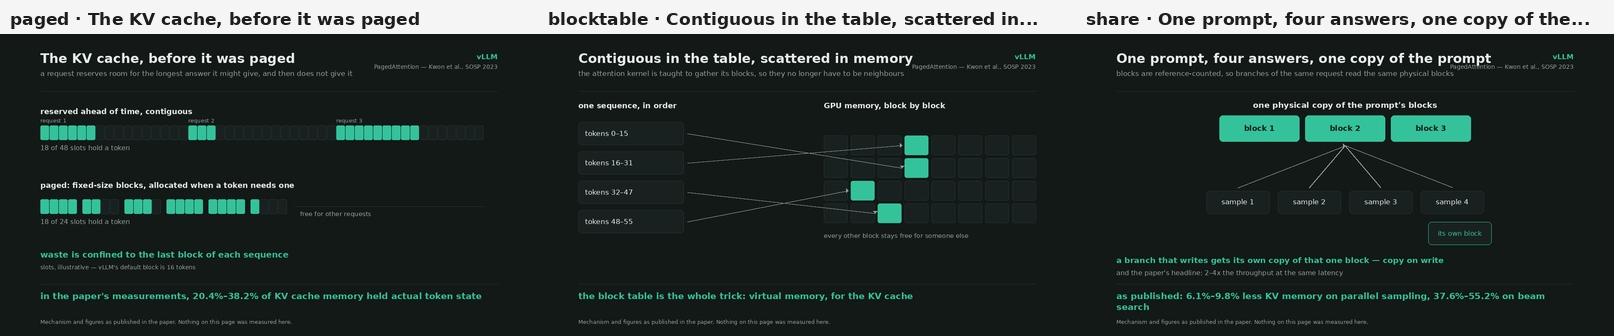
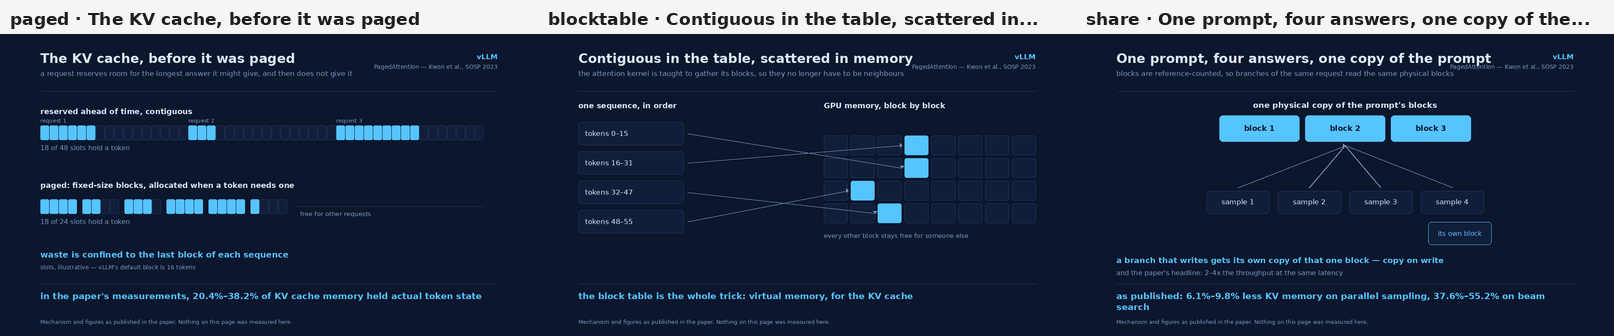
Give an explainer a film, and draw it in beats
Panels in order behind a title card.  Each page builds in two beats — the
row, then the count it comes to — so a total never stands over a row that
is still being drawn.

diff --git a/demokit/compose/explain_compose.py b/demokit/compose/explain_compose.py
@@ -56,6 +56,16 @@ def reveal(n, t):
     return int(round(n * min(max(t, 0.0), 1.0)))
 
 
+def stage(t, a, b):
+    """Progress within one beat of a panel, so beats can follow each other.
+
+    A counter that states its conclusion while the row it counts is still
+    being drawn is saying something that is not yet true on the page.
+    Gate on `stage(...) >= 1`.
+    """
+    return min(max((t - a) / (b - a), 0.0), 1.0)
+
+
 def _text(d, xy, s, f, fill, center=None):
     x, y = xy
     if center is not None:
@@ -107,7 +117,8 @@ def paged(d, pal, p, t, ink):
     # as reserved: one contiguous run per request, most of it never taken
     x0, y = PAD, BODY_TOP + 40
     _text(d, (PAD, y - 30), p["top"], font(18, True), pal.ink)
-    shown = reveal(len(reqs) * reserve, t)
+    ta, tb = stage(t, 0.0, 0.5), stage(t, 0.5, 1.0)
+    shown = reveal(len(reqs) * reserve, ta)
     for j, r in enumerate(reqs):
         base = j * reserve
         _text(d, (x0 + base * (slot + gap), y - 6), r["label"], font(13),
@@ -119,8 +130,9 @@ def paged(d, pal, p, t, ink):
         x = x0 + i * (slot + gap)
         _chip(d, (x, y + 14, x + slot, y + 14 + hh), pal, ink,
               filled=off < reqs[j]["used"], r=3)
-    held = f"{used_total} of {reserved_total} slots hold a token"
-    _text(d, (PAD, y + 58), held, font(16), pal.muted)
+    if ta >= 1:
+        held = f"{used_total} of {reserved_total} slots hold a token"
+        _text(d, (PAD, y + 58), held, font(16), pal.muted)
 
     # paged: blocks handed out only when a token needs one
     y = BODY_TOP + 216
@@ -130,7 +142,7 @@ def paged(d, pal, p, t, ink):
     seen = 0
     for j, r in enumerate(reqs):
         for b in range(math.ceil(r["used"] / block)):
-            if seen >= reveal(nblocks, t):
+            if seen >= reveal(nblocks, tb):
                 break
             for k in range(block):
                 filled = b * block + k < r["used"]
@@ -139,17 +151,17 @@ def paged(d, pal, p, t, ink):
                       filled=filled, r=3)
             x += block * (slot + gap) + 12
             seen += 1
-    if t > 0.9:
+    if tb >= 1:
         end = PAD + (len(reqs) * reserve) * (slot + gap)
         d.line((x + 6, y + 31, end, y + 31), fill=pal.line)
         _text(d, (x + 18, y + 40), "free for other requests", font(15),
               pal.muted)
-    _text(d, (PAD, y + 58),
-          f"{used_total} of {paged_total} slots hold a token", font(16),
-          pal.muted)
-
-    _text(d, (PAD, BODY_TOP + 350), p["tail"], font(20, True), ink)
-    _text(d, (PAD, BODY_TOP + 384), p["scale"], font(14), pal.muted)
+    if tb >= 1:
+        _text(d, (PAD, y + 58),
+              f"{used_total} of {paged_total} slots hold a token", font(16),
+              pal.muted)
+        _text(d, (PAD, BODY_TOP + 350), p["tail"], font(20, True), ink)
+        _text(d, (PAD, BODY_TOP + 384), p["scale"], font(14), pal.muted)
 
 
 def blocktable(d, pal, p, t, ink):
@@ -193,7 +205,7 @@ def share(d, pal, p, t, ink):
     _text(d, (0, BODY_TOP - 6), p["prompt_label"], font(19, True), pal.ink,
           center=W / 2)
     for i in range(n):
-        if i >= reveal(n, t):
+        if i >= reveal(n, stage(t, 0.0, 0.35)):
             break
         x = x0 + i * (bw + 14)
         d.rounded_rectangle((x, top, x + bw, top + bh), 8, fill=ink)
@@ -205,7 +217,7 @@ def share(d, pal, p, t, ink):
     bx0 = (W - (len(br) * (cw + 20) - 20)) / 2
     by = BODY_TOP + 210
     for i, lab in enumerate(br):
-        if i >= reveal(len(br), t + 0.2):
+        if i >= reveal(len(br), stage(t, 0.3, 0.75)):
             break
         x = bx0 + i * (cw + 20)
         d.rounded_rectangle((x, by, x + cw, by + 54), 8, fill=pal.card,
@@ -291,13 +303,13 @@ def schedule(d, pal, p, t, ink):
             zip(keys, ("ours", "compiled", "native", "stock"))}
     cw, cg, chh = 106, 14, 58
 
-    def row(order, y, head, ):
+    def row(order, y, head, tt):
         _text(d, (PAD, y - 52), head, font(18, True), pal.ink)
         seen = None
         for i, g in enumerate(order):
             hit = g == seen
             seen = g
-            if i >= reveal(len(order), t):
+            if i >= reveal(len(order), tt):
                 continue
             x = PAD + i * (cw + cg)
             d.rounded_rectangle((x, y, x + cw, y + chh), 8, fill=inks[g])
@@ -313,24 +325,28 @@ def schedule(d, pal, p, t, ink):
 
     a = prefix_computes(groups)
     b = prefix_computes(sorted(groups))
-    row(groups, BODY_TOP + 50, p["top"])
-    row(sorted(groups), BODY_TOP + 210, p["bottom"])
-    _text(d, (PAD, BODY_TOP + 122),
-          f"the prefix is computed {a} times", font(17), pal.muted)
-    _text(d, (PAD, BODY_TOP + 282),
-          f"the prefix is computed {b} times, and read {len(groups) - b} "
-          f"times from the tree", font(17), ink)
-    _text(d, (PAD, BODY_TOP + 326), p["tail"], font(19, True), ink)
+    ta, tb = stage(t, 0.0, 0.5), stage(t, 0.5, 1.0)
+    row(groups, BODY_TOP + 50, p["top"], ta)
+    row(sorted(groups), BODY_TOP + 210, p["bottom"], tb)
+    if ta >= 1:
+        _text(d, (PAD, BODY_TOP + 122),
+              f"the prefix is computed {a} times", font(17), pal.muted)
+    if tb >= 1:
+        _text(d, (PAD, BODY_TOP + 282),
+              f"the prefix is computed {b} times, and read "
+              f"{len(groups) - b} times from the tree", font(17), ink)
+        _text(d, (PAD, BODY_TOP + 326), p["tail"], font(19, True), ink)
 
 
 def fsm(d, pal, p, t, ink):
     text, forced = p["text"], p["forced"]
     n, decode_steps = fsm_steps(p)
     tw = (W - 2 * PAD) / n
+    ta, tb = stage(t, 0.0, 0.5), stage(t, 0.5, 1.0)
     y = BODY_TOP + 30
     _text(d, (PAD, y - 30), p["top"], font(18, True), pal.ink)
     for i, s in enumerate(text):
-        if i >= reveal(n, t):
+        if i >= reveal(n, ta):
             break
         x = PAD + i * tw
         d.rounded_rectangle((x + 3, y, x + tw - 3, y + 62), 7, fill=pal.card,
@@ -342,7 +358,7 @@ def fsm(d, pal, p, t, ink):
     y = BODY_TOP + 216
     _text(d, (PAD, y - 30), p["bottom"], font(18, True), pal.ink)
     i, step = 0, 0
-    while i < n:
+    while i < reveal(n, tb):
         j = i
         while j < n and forced[j] == forced[i]:
             j += 1
@@ -361,9 +377,10 @@ def fsm(d, pal, p, t, ink):
             _text(d, (0, y + 38), f"step {step}", font(13), pal.bg,
                   center=(x0 + x1) / 2)
         i = j
-    _text(d, (PAD, y + 100), f"{n} decode steps becomes {decode_steps}",
-          font(20, True), ink)
-    _text(d, (PAD, y + 134), p["tail"], font(16), pal.muted)
+    if tb >= 1:
+        _text(d, (PAD, y + 100), f"{n} decode steps becomes {decode_steps}",
+              font(20, True), ink)
+        _text(d, (PAD, y + 134), p["tail"], font(16), pal.muted)
 
 
 STYLES = {"paged": paged, "blocktable": blocktable, "share": share,
@@ -401,6 +418,22 @@ def frame(spec, panel, pal, t=1.0):
     return im
 
 
+def card(spec, pal, t=1.0):
+    """The opening card: whose idea this is, and where it was published."""
+    im = Image.new("RGB", (W, H), pal.bg)
+    d = ImageDraw.Draw(im)
+    ink = pal.role(spec.get("accent", "ours"))
+    _text(d, (PAD, 232), spec["framework"], font(76, True), ink)
+    y = 336
+    for line in wrap(d, spec["tagline"], font(28), W - 2 * PAD - 120)[:2]:
+        _text(d, (PAD, y), line, font(28), pal.ink)
+        y += 38
+    d.line((PAD, y + 26, PAD + 260 * min(t * 2, 1.0), y + 26), fill=pal.line)
+    _text(d, (PAD, y + 48), spec["paper"], font(19), pal.muted)
+    _text(d, (PAD, 678), spec["source"], font(13), pal.muted)
+    return im
+
+
 def load(name):
     p = pathlib.Path(name)
     if not p.exists():
@@ -417,6 +450,26 @@ def render(spec, panel, out, pal, fps=30, build=3.0, hold=2.5):
     for i in range(total):
         t = min(i / fps / build, 1.0)
         frame(spec, panel, pal, t).save(tmp / f"{i:05d}.png")
+    subprocess.run([_ffmpeg(), "-y", "-v", "error", "-framerate", str(fps),
+                    "-i", str(tmp / "%05d.png"), "-c:v", "libvpx-vp9",
+                    "-b:v", "0", "-crf", "30", "-pix_fmt", "yuv420p",
+                    str(out)], check=True)
+    return out
+
+
+#: a panel is drawn in two beats, so a build of 4 s gives each about 2
+def film(spec, out, pal, fps=30, card_s=2.4, build=4.0, hold=2.4):
+    """Every panel of one spec, in order: the framework's own film."""
+    tmp = pathlib.Path(tempfile.mkdtemp(prefix="explain_film_"))
+    i = 0
+    for _ in range(int(card_s * fps)):
+        card(spec, pal, min(i / fps / card_s, 1.0)).save(tmp / f"{i:05d}.png")
+        i += 1
+    for panel in range(len(spec["panels"])):
+        for k in range(int((build + hold) * fps)):
+            frame(spec, panel, pal, min(k / fps / build, 1.0)).save(
+                tmp / f"{i:05d}.png")
+            i += 1
     subprocess.run([_ffmpeg(), "-y", "-v", "error", "-framerate", str(fps),
                     "-i", str(tmp / "%05d.png"), "-c:v", "libvpx-vp9",
                     "-b:v", "0", "-crf", "30", "-pix_fmt", "yuv420p",
@@ -477,6 +530,7 @@ def main(argv=None):
     ap.add_argument("--fps", type=int, default=30)
     ap.add_argument("--frame"); ap.add_argument("--out")
     ap.add_argument("--menu"); ap.add_argument("--sheet")
+    ap.add_argument("--film", help="every panel in order, one film")
     a = ap.parse_args(argv)
     spec = load(a.spec)
     pal = palette(a.palette)
@@ -489,7 +543,9 @@ def main(argv=None):
         print(a.frame)
     if a.out:
         print(render(spec, a.panel, a.out, pal, fps=a.fps))
-    if not (a.menu or a.sheet or a.frame or a.out):
+    if a.film:
+        print(film(spec, a.film, pal, fps=a.fps))
+    if not (a.menu or a.sheet or a.frame or a.out or a.film):
         ap.error("nothing to write: pass --frame, --out, --menu or --sheet")
 
 

diff --git a/demokit/cli.py b/demokit/cli.py
@@ -184,6 +184,7 @@ def main(argv=None) -> int:
     e.add_argument("--frame"); e.add_argument("--out")
     e.add_argument("--menu", help="every panel of this spec, one PNG")
     e.add_argument("--sheet", help="one panel in every colour system")
+    e.add_argument("--film", help="every panel in order, one film")
 
     L = sub.add_parser("looks", help="draw one stream recording in another "
                                      "visual language, or every one at once")
@@ -216,7 +217,7 @@ def main(argv=None) -> int:
         from demokit.compose import explain_compose as E
         argv2 = [a.spec, "--panel", str(a.panel), "--palette", a.palette,
                  "--fps", str(a.fps)]
-        for flag in ("frame", "out", "menu", "sheet"):
+        for flag in ("frame", "out", "menu", "sheet", "film"):
             if getattr(a, flag, None):
                 argv2 += [f"--{flag}", getattr(a, flag)]
         E.main(argv2)

diff --git a/README.md b/README.md
@@ -134,13 +134,19 @@ the source is the paper, and the drawing is the work.
 
 ```bash
 demokit explain vllm_paged   --menu menu.png                 # every panel
-demokit explain sglang_radix --panel 0 --palette blueprint --out radix.webm
+demokit explain vllm_paged   --palette blueprint --film vllm.webm    # the film
+demokit explain sglang_radix --panel 0 --palette ember --out radix.webm
 demokit explain vllm_paged   --panel 0 --sheet paged.png     # six palettes
 ```
 
 ![vLLM explainer panels](docs/explain_vllm.png)
 
 ![SGLang explainer panels](docs/explain_sglang.png)
+
+`--film` puts the panels in order behind a title card, and each panel builds
+in beats: the row first, then the count it comes to. A number never appears
+over a row that is still being drawn, which is the same rule as everywhere
+else in this kit — do not say a thing before it is true on the page.
 
 Two specs ship, drawn from the papers their own authors wrote:
 `vllm_paged` (PagedAttention, SOSP 2023) and `sglang_radix` (RadixAttention,
